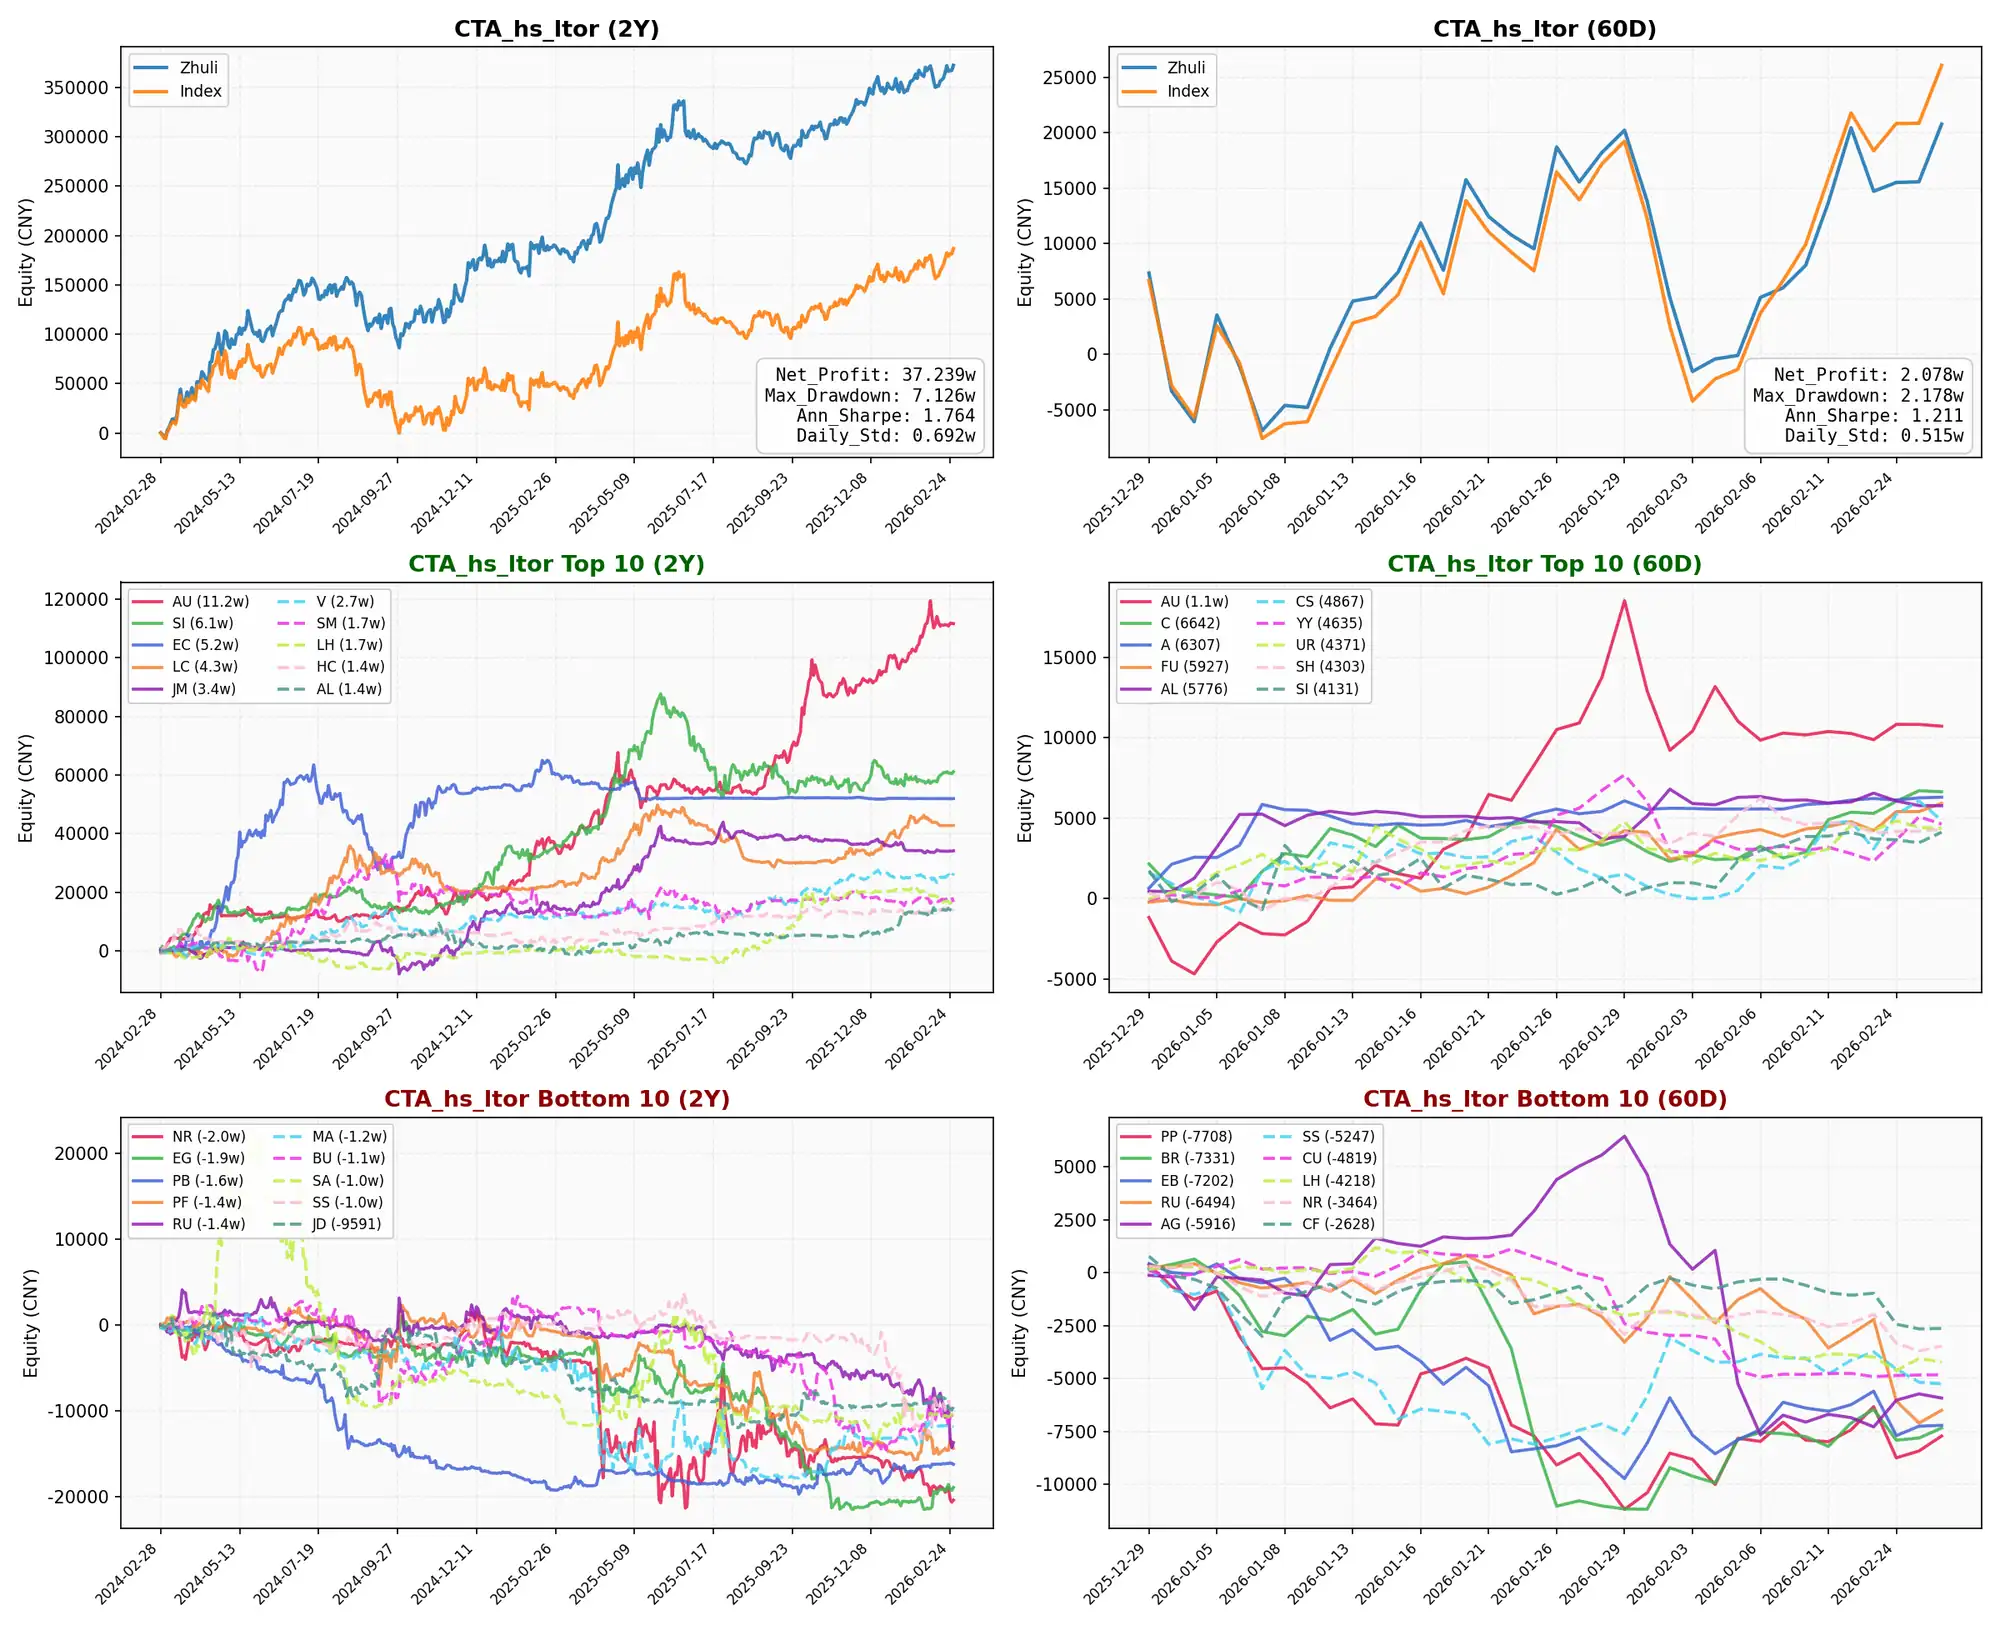
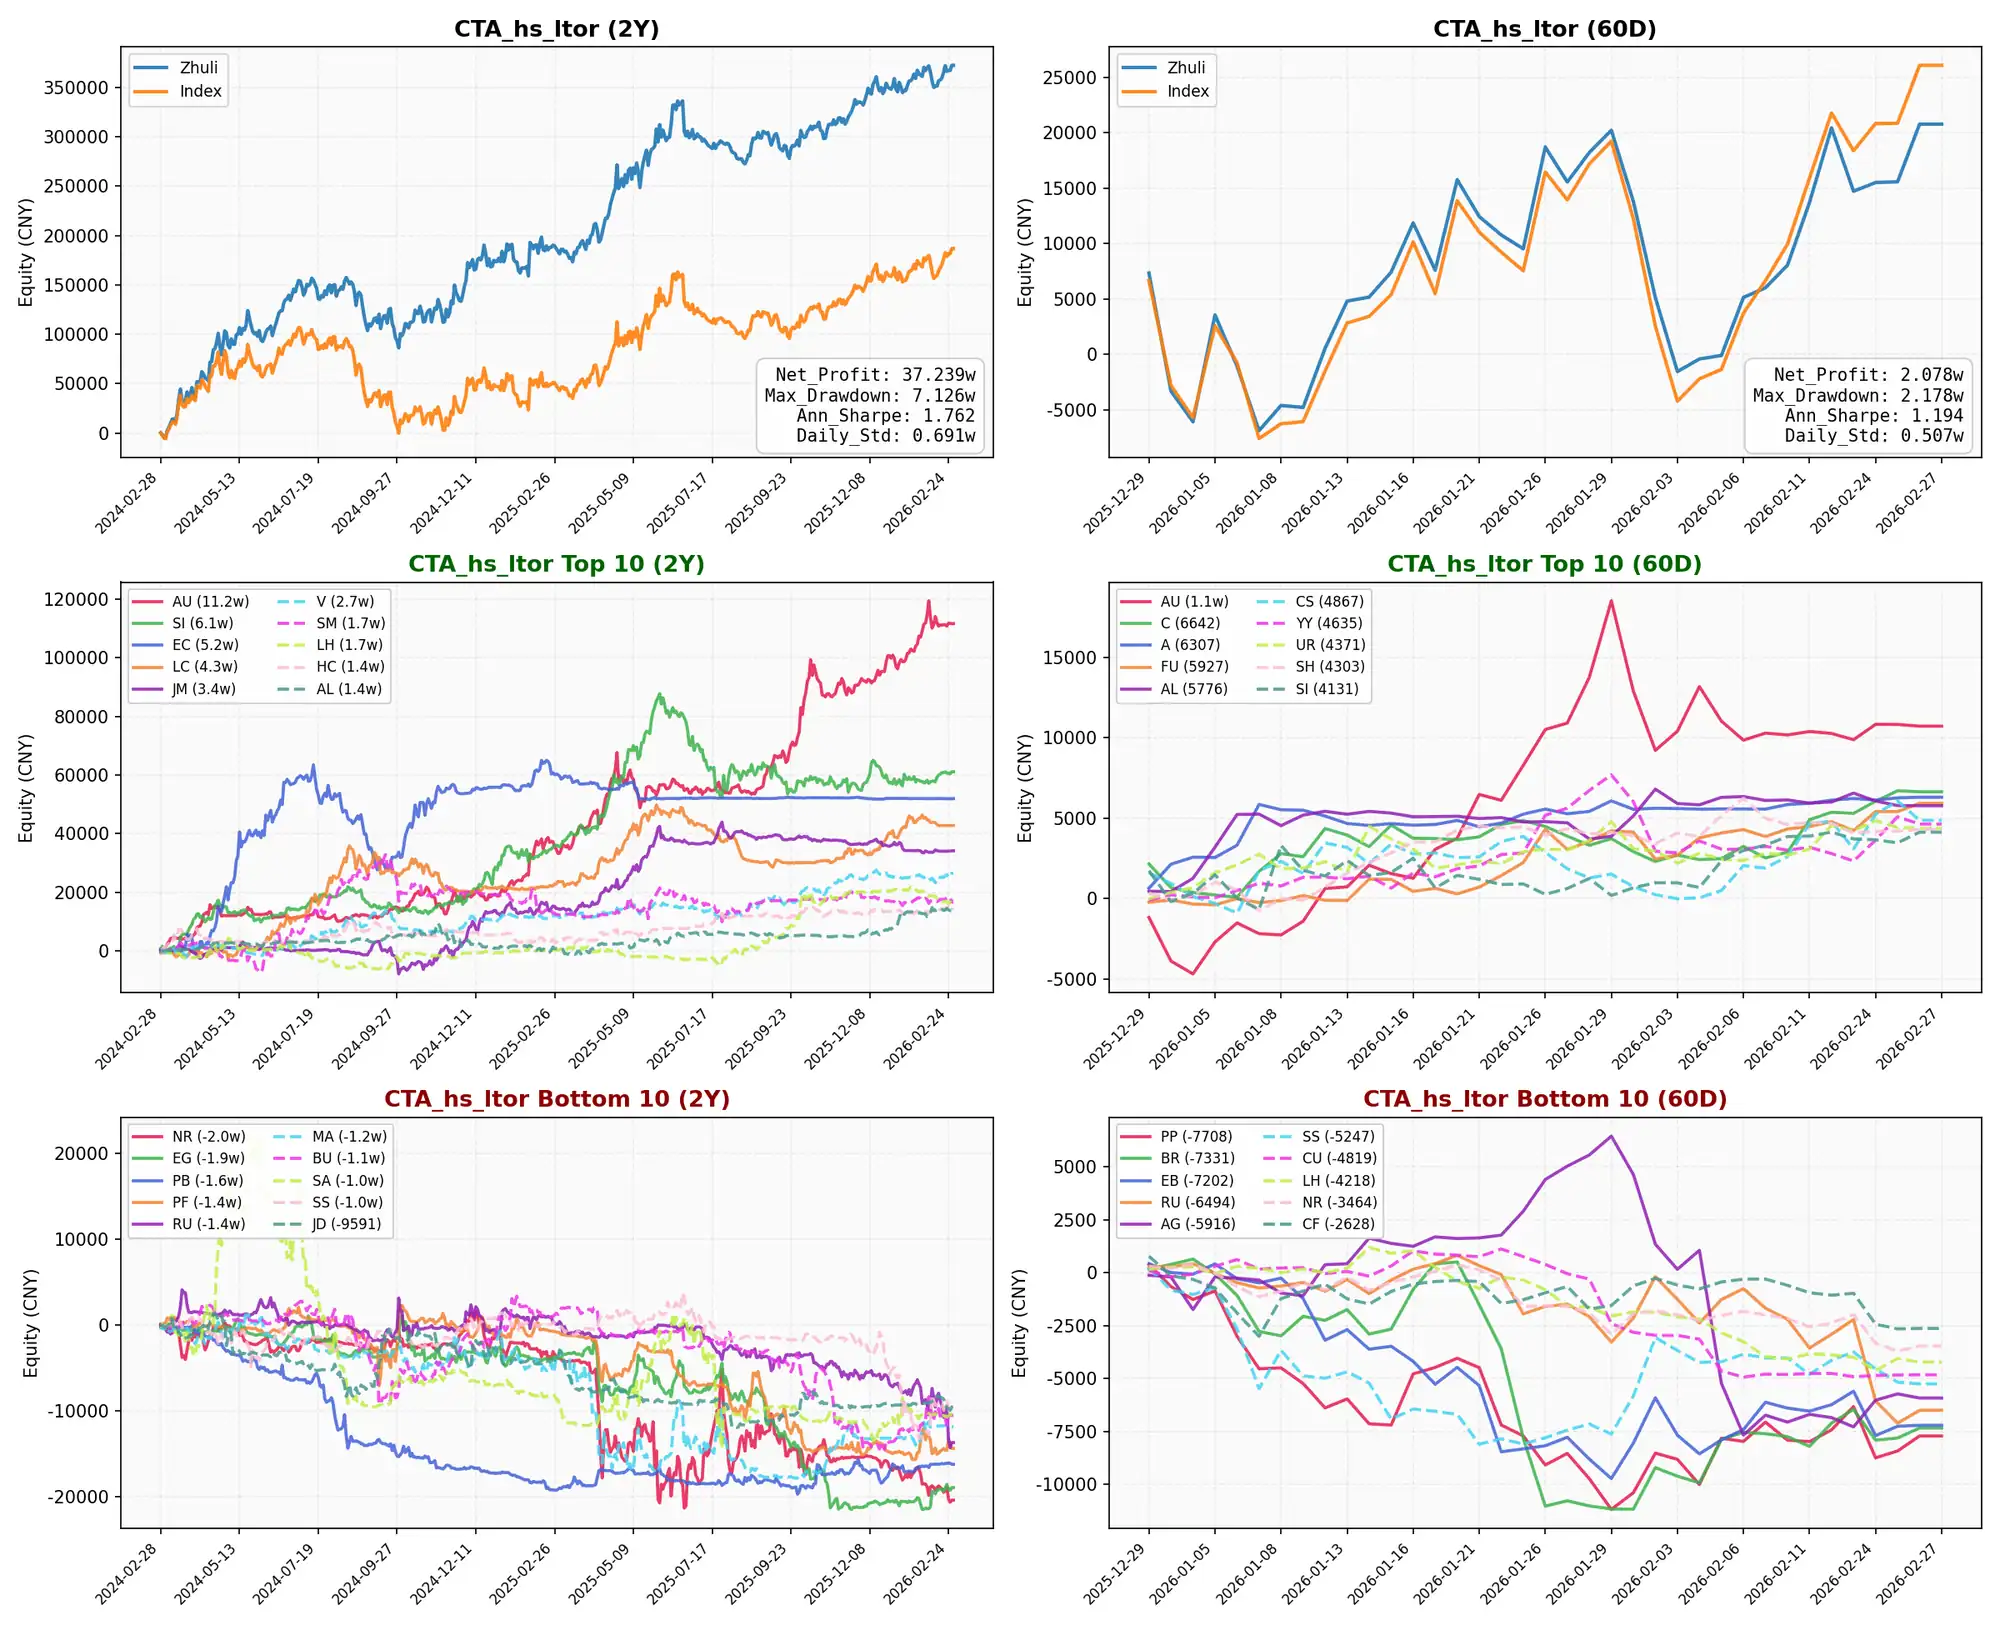
update 2026-02-27

diff --git a/group/index.html b/group/index.html
@@ -61,7 +61,7 @@
 </head>
 <body>
 <h1>Strategy Equity Dashboard</h1>
-<p class="subtitle">Updated: 2026-02-27 | Sorted by 60D Ann_Sharpe | 18 strategies | results_group</p>
+<p class="subtitle">Updated: 2026-02-27 | Sorted by 60D Ann_Sharpe | 19 strategies | results_group</p>
 <div class="controls">
   <input type="text" id="search" placeholder="Search strategy name..." oninput="filterCards()">
   <button onclick="toggleAll()">Expand / Collapse All</button>
@@ -172,7 +172,7 @@
         <span class="rank">#5</span>
         <span class="name">xiaowengroup_202509</span>
         <span class="badge">60D Profit: 6.114w</span>
-        <span class="badge badge-sharpe">Sharpe: 3.617</span>
+        <span class="badge badge-sharpe">Sharpe: 3.563</span>
         <span class="badge badge-dd">MaxDD: 3.559w</span>
         <span class="toggle-icon">▼</span>
       </div>
@@ -181,12 +181,12 @@
           <table class="kpi-table">
             <tr><th colspan="4">2Y KPI</th></tr>
             <tr><td class="kpi-label">Net_Profit</td><td class="kpi-val">17.072w</td><td class="kpi-label">Max_Drawdown</td><td class="kpi-val">4.52w</td></tr>
-            <tr><td class="kpi-label">Ann_Sharpe</td><td class="kpi-val">3.287</td><td class="kpi-label">Daily_Std</td><td class="kpi-val">0.752w</td></tr>
+            <tr><td class="kpi-label">Ann_Sharpe</td><td class="kpi-val">3.272</td><td class="kpi-label">Daily_Std</td><td class="kpi-val">0.749w</td></tr>
           </table>
           <table class="kpi-table">
             <tr><th colspan="4">60D KPI</th></tr>
             <tr><td class="kpi-label">Net_Profit</td><td class="kpi-val">6.114w</td><td class="kpi-label">Max_Drawdown</td><td class="kpi-val">3.559w</td></tr>
-            <tr><td class="kpi-label">Ann_Sharpe</td><td class="kpi-val">3.617</td><td class="kpi-label">Daily_Std</td><td class="kpi-val">0.856w</td></tr>
+            <tr><td class="kpi-label">Ann_Sharpe</td><td class="kpi-val">3.563</td><td class="kpi-label">Daily_Std</td><td class="kpi-val">0.845w</td></tr>
           </table>
         </div>
         <img class="chart-img" data-src="xiaowengroup_202509.webp" alt="xiaowengroup_202509">
@@ -247,7 +247,7 @@
         <span class="rank">#8</span>
         <span class="name">macro_group</span>
         <span class="badge">60D Profit: 7.926w</span>
-        <span class="badge badge-sharpe">Sharpe: 2.887</span>
+        <span class="badge badge-sharpe">Sharpe: 2.846</span>
         <span class="badge badge-dd">MaxDD: 6.316w</span>
         <span class="toggle-icon">▼</span>
       </div>
@@ -256,12 +256,12 @@
           <table class="kpi-table">
             <tr><th colspan="4">2Y KPI</th></tr>
             <tr><td class="kpi-label">Net_Profit</td><td class="kpi-val">99.172w</td><td class="kpi-label">Max_Drawdown</td><td class="kpi-val">7.354w</td></tr>
-            <tr><td class="kpi-label">Ann_Sharpe</td><td class="kpi-val">3.756</td><td class="kpi-label">Daily_Std</td><td class="kpi-val">0.864w</td></tr>
+            <tr><td class="kpi-label">Ann_Sharpe</td><td class="kpi-val">3.752</td><td class="kpi-label">Daily_Std</td><td class="kpi-val">0.863w</td></tr>
           </table>
           <table class="kpi-table">
             <tr><th colspan="4">60D KPI</th></tr>
             <tr><td class="kpi-label">Net_Profit</td><td class="kpi-val">7.926w</td><td class="kpi-label">Max_Drawdown</td><td class="kpi-val">6.316w</td></tr>
-            <tr><td class="kpi-label">Ann_Sharpe</td><td class="kpi-val">2.887</td><td class="kpi-label">Daily_Std</td><td class="kpi-val">1.249w</td></tr>
+            <tr><td class="kpi-label">Ann_Sharpe</td><td class="kpi-val">2.846</td><td class="kpi-label">Daily_Std</td><td class="kpi-val">1.232w</td></tr>
           </table>
         </div>
         <img class="chart-img" data-src="macro_group.webp" alt="macro_group">
@@ -422,7 +422,7 @@
         <span class="rank">#15</span>
         <span class="name">CTA_ts_mtor_v2</span>
         <span class="badge">60D Profit: 5.519w</span>
-        <span class="badge badge-sharpe">Sharpe: 1.738</span>
+        <span class="badge badge-sharpe">Sharpe: 1.713</span>
         <span class="badge badge-dd">MaxDD: 6.884w</span>
         <span class="toggle-icon">▼</span>
       </div>
@@ -431,23 +431,48 @@
           <table class="kpi-table">
             <tr><th colspan="4">2Y KPI</th></tr>
             <tr><td class="kpi-label">Net_Profit</td><td class="kpi-val">54.669w</td><td class="kpi-label">Max_Drawdown</td><td class="kpi-val">10.846w</td></tr>
-            <tr><td class="kpi-label">Ann_Sharpe</td><td class="kpi-val">1.446</td><td class="kpi-label">Daily_Std</td><td class="kpi-val">1.244w</td></tr>
+            <tr><td class="kpi-label">Ann_Sharpe</td><td class="kpi-val">1.444</td><td class="kpi-label">Daily_Std</td><td class="kpi-val">1.243w</td></tr>
           </table>
           <table class="kpi-table">
             <tr><th colspan="4">60D KPI</th></tr>
             <tr><td class="kpi-label">Net_Profit</td><td class="kpi-val">5.519w</td><td class="kpi-label">Max_Drawdown</td><td class="kpi-val">6.884w</td></tr>
-            <tr><td class="kpi-label">Ann_Sharpe</td><td class="kpi-val">1.738</td><td class="kpi-label">Daily_Std</td><td class="kpi-val">1.641w</td></tr>
+            <tr><td class="kpi-label">Ann_Sharpe</td><td class="kpi-val">1.713</td><td class="kpi-label">Daily_Std</td><td class="kpi-val">1.618w</td></tr>
           </table>
         </div>
         <img class="chart-img" data-src="CTA_ts_mtor_v2.webp" alt="CTA_ts_mtor_v2">
       </div>
     </div>
-    <div class="card collapsed" id="CTA_hs_ltor">
+    <div class="card collapsed" id="Deap_benchmark_v7_ML_opt">
       <div class="card-header" onclick="toggleCard(this.parentElement)">
         <span class="rank">#16</span>
+        <span class="name">Deap_benchmark_v7_ML_opt</span>
+        <span class="badge">60D Profit: 3.144w</span>
+        <span class="badge badge-sharpe">Sharpe: 1.453</span>
+        <span class="badge badge-dd">MaxDD: 2.94w</span>
+        <span class="toggle-icon">▼</span>
+      </div>
+      <div class="card-body">
+        <div class="kpi-row">
+          <table class="kpi-table">
+            <tr><th colspan="4">2Y KPI</th></tr>
+            <tr><td class="kpi-label">Net_Profit</td><td class="kpi-val">85.221w</td><td class="kpi-label">Max_Drawdown</td><td class="kpi-val">4.452w</td></tr>
+            <tr><td class="kpi-label">Ann_Sharpe</td><td class="kpi-val">4.569</td><td class="kpi-label">Daily_Std</td><td class="kpi-val">0.609w</td></tr>
+          </table>
+          <table class="kpi-table">
+            <tr><th colspan="4">60D KPI</th></tr>
+            <tr><td class="kpi-label">Net_Profit</td><td class="kpi-val">3.144w</td><td class="kpi-label">Max_Drawdown</td><td class="kpi-val">2.94w</td></tr>
+            <tr><td class="kpi-label">Ann_Sharpe</td><td class="kpi-val">1.453</td><td class="kpi-label">Daily_Std</td><td class="kpi-val">0.709w</td></tr>
+          </table>
+        </div>
+        <img class="chart-img" data-src="Deap_benchmark_v7_ML_opt.webp" alt="Deap_benchmark_v7_ML_opt">
+      </div>
+    </div>
+    <div class="card collapsed" id="CTA_hs_ltor">
+      <div class="card-header" onclick="toggleCard(this.parentElement)">
+        <span class="rank">#17</span>
         <span class="name">CTA_hs_ltor</span>
         <span class="badge">60D Profit: 2.078w</span>
-        <span class="badge badge-sharpe">Sharpe: 1.211</span>
+        <span class="badge badge-sharpe">Sharpe: 1.194</span>
         <span class="badge badge-dd">MaxDD: 2.178w</span>
         <span class="toggle-icon">▼</span>
       </div>
@@ -456,12 +481,12 @@
           <table class="kpi-table">
             <tr><th colspan="4">2Y KPI</th></tr>
             <tr><td class="kpi-label">Net_Profit</td><td class="kpi-val">37.239w</td><td class="kpi-label">Max_Drawdown</td><td class="kpi-val">7.126w</td></tr>
-            <tr><td class="kpi-label">Ann_Sharpe</td><td class="kpi-val">1.764</td><td class="kpi-label">Daily_Std</td><td class="kpi-val">0.692w</td></tr>
+            <tr><td class="kpi-label">Ann_Sharpe</td><td class="kpi-val">1.762</td><td class="kpi-label">Daily_Std</td><td class="kpi-val">0.691w</td></tr>
           </table>
           <table class="kpi-table">
             <tr><th colspan="4">60D KPI</th></tr>
             <tr><td class="kpi-label">Net_Profit</td><td class="kpi-val">2.078w</td><td class="kpi-label">Max_Drawdown</td><td class="kpi-val">2.178w</td></tr>
-            <tr><td class="kpi-label">Ann_Sharpe</td><td class="kpi-val">1.211</td><td class="kpi-label">Daily_Std</td><td class="kpi-val">0.515w</td></tr>
+            <tr><td class="kpi-label">Ann_Sharpe</td><td class="kpi-val">1.194</td><td class="kpi-label">Daily_Std</td><td class="kpi-val">0.507w</td></tr>
           </table>
         </div>
         <img class="chart-img" data-src="CTA_hs_ltor.webp" alt="CTA_hs_ltor">
@@ -469,7 +494,7 @@
     </div>
     <div class="card collapsed" id="Deap_comm_daynight_combine_ML_opt">
       <div class="card-header" onclick="toggleCard(this.parentElement)">
-        <span class="rank">#17</span>
+        <span class="rank">#18</span>
         <span class="name">Deap_comm_daynight_combine_ML_opt</span>
         <span class="badge">60D Profit: 2.475w</span>
         <span class="badge badge-sharpe">Sharpe: 0.808</span>
@@ -494,7 +519,7 @@
     </div>
     <div class="card collapsed" id="CTA_ts_ltor">
       <div class="card-header" onclick="toggleCard(this.parentElement)">
-        <span class="rank">#18</span>
+        <span class="rank">#19</span>
         <span class="name">CTA_ts_ltor</span>
         <span class="badge">60D Profit: -2.993w</span>
         <span class="badge badge-sharpe">Sharpe: -0.809</span>
@@ -506,7 +531,7 @@
           <table class="kpi-table">
             <tr><th colspan="4">2Y KPI</th></tr>
             <tr><td class="kpi-label">Net_Profit</td><td class="kpi-val">55.289w</td><td class="kpi-label">Max_Drawdown</td><td class="kpi-val">13.095w</td></tr>
-            <tr><td class="kpi-label">Ann_Sharpe</td><td class="kpi-val">1.316</td><td class="kpi-label">Daily_Std</td><td class="kpi-val">1.364w</td></tr>
+            <tr><td class="kpi-label">Ann_Sharpe</td><td class="kpi-val">1.315</td><td class="kpi-label">Daily_Std</td><td class="kpi-val">1.363w</td></tr>
           </table>
           <table class="kpi-table">
             <tr><th colspan="4">60D KPI</th></tr>
